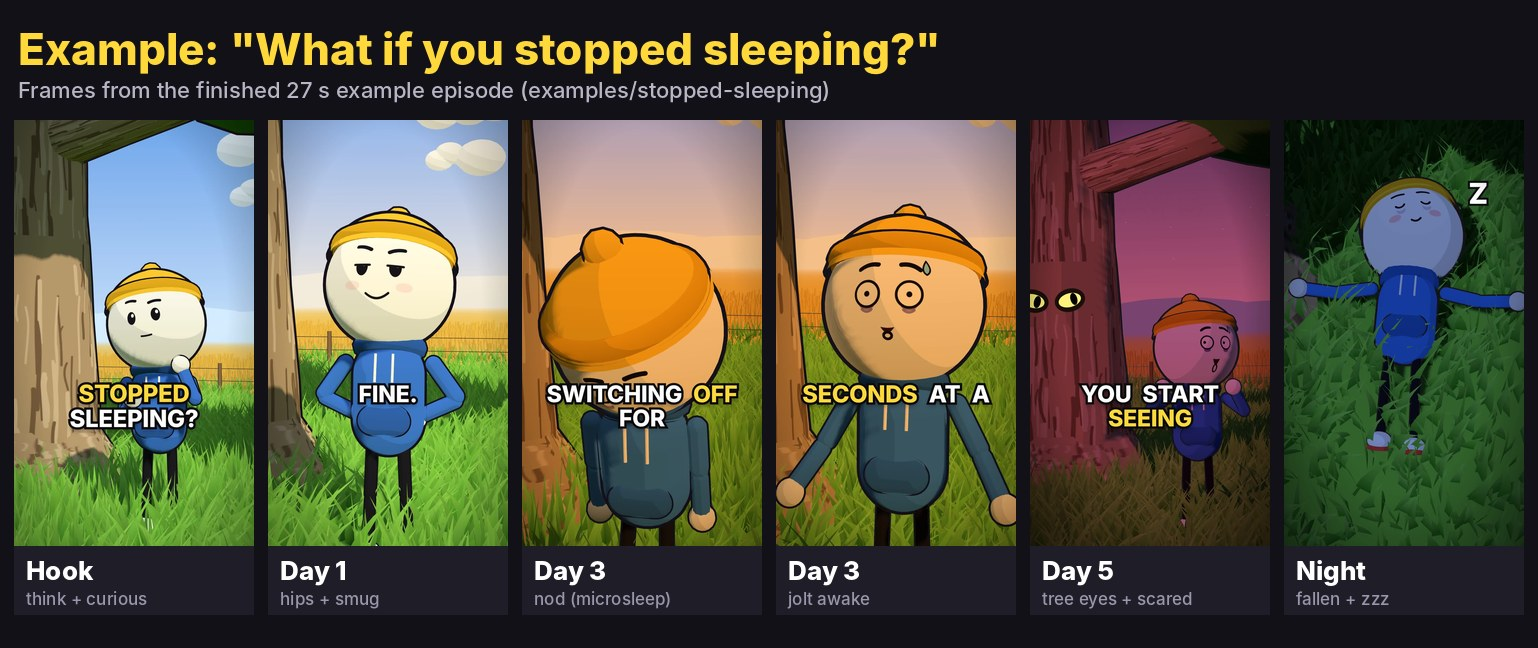
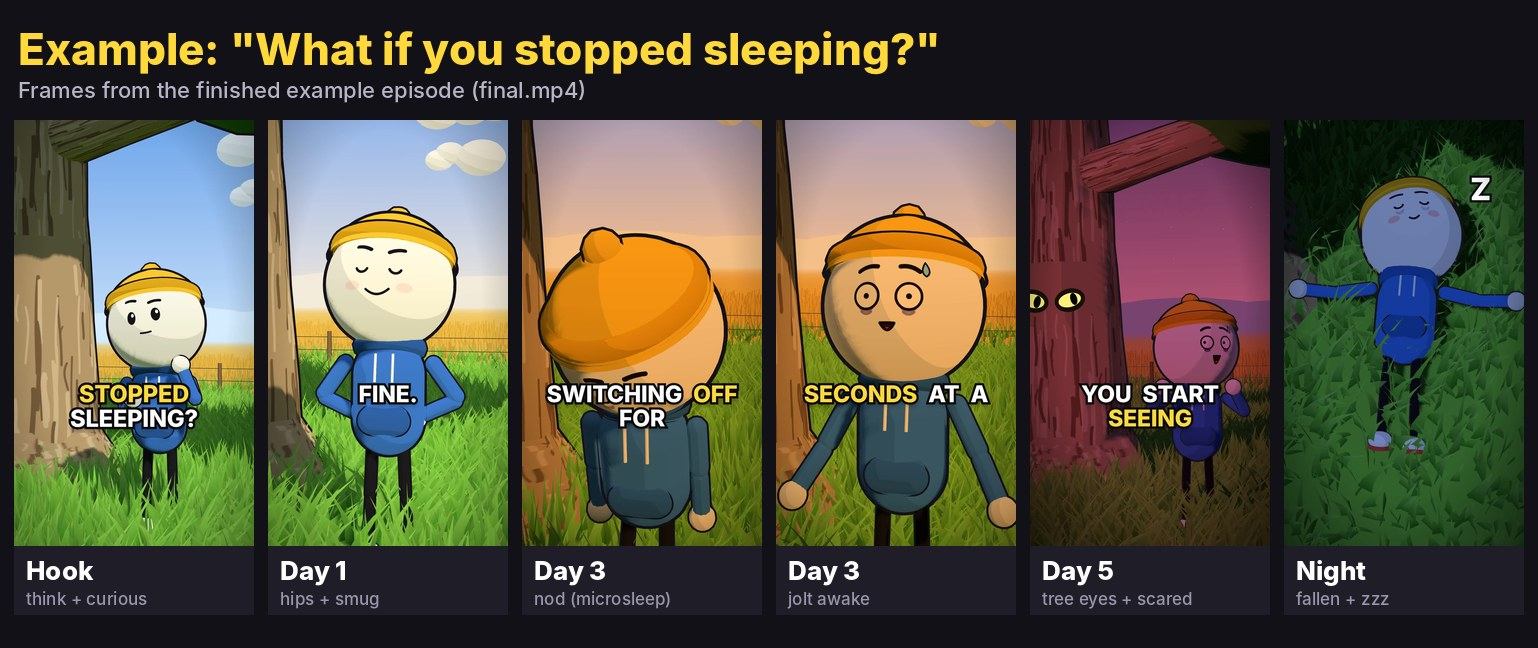
Add coffee episode gallery, refresh previews with current engine
- README: coffee episode GIF and frames (were missing), first episode GIF
  and frames re-rendered with the fixed mouths
- pose sheet shows all 19 poses incl. sip and holdMug in a 5-column grid;
  outfit sheet labels Beanie (Classic)

Claude-Session: https://claude.ai/code/session_01F6C3V3dZVQ1Q8Jci7iErVt

diff --git a/docs/gallery/build_gallery.py b/docs/gallery/build_gallery.py
@@ -105,7 +105,7 @@ ims = render(shots)
 codes = [f"POSE('{n}')" if n != 'walk' else "fx.walk + ry: 1.2" for n, *_ in POSES]
 codes[8] = "POSE('wave') + fx.wave"; codes[12] = "POSE('scared') + fx.tremble"; codes[15] = "POSE('fallen') / fx.fall"; codes[17] = "POSE('holdMug') + props.mug"; codes[18] = "POSE('sip') + props.mugTilt"
 sheet('poses.jpg', 'Poses', 'Built-in body poses — use POSE(name, overrides) in episode.js keyframes',
-      [(im, n, c) for im, (n, *_), c in zip(ims, POSES, codes)], cols=6, crop=(0, 160, 1080, 1760))
+      [(im, n, c) for im, (n, *_), c in zip(ims, POSES, codes)], cols=5, crop=(0, 160, 1080, 1760))
 
 # ---- faces ----
 FACES = [
